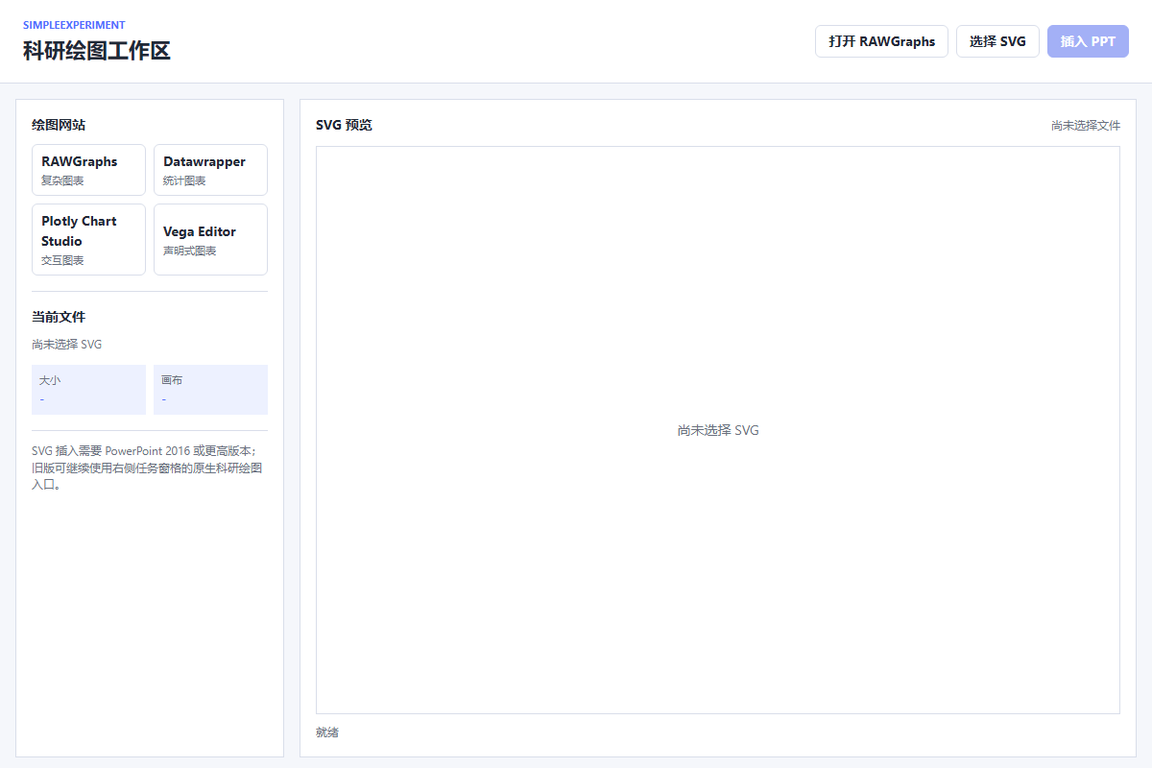
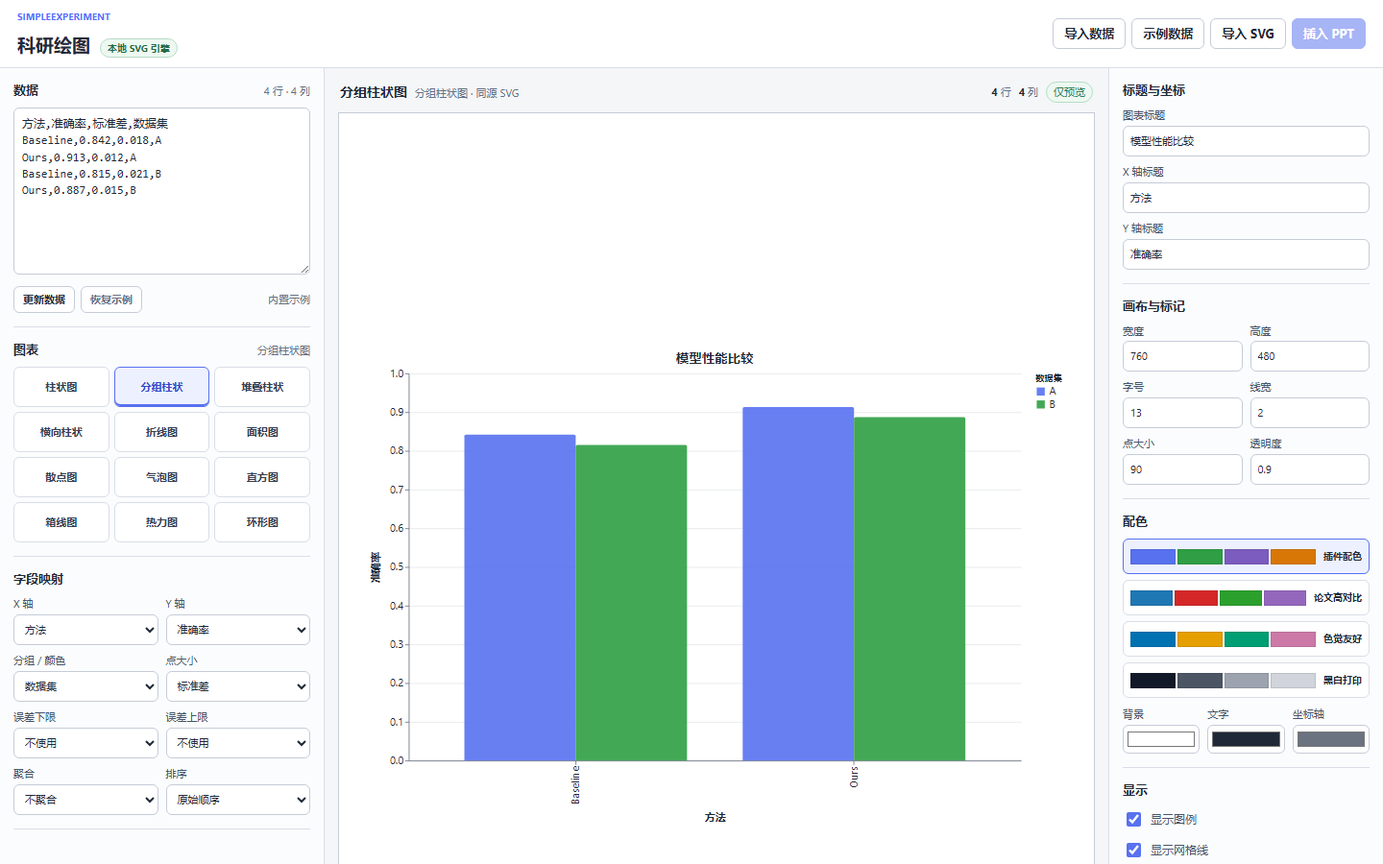
feat: complete local research chart workflow

diff --git a/src/RoughPptAddin/ui/help.html b/src/RoughPptAddin/ui/help.html
@@ -67,7 +67,7 @@
             <tr><td>风格、填充、线条、箭头快捷</td><td>Ribbon → 风格</td><td>快速套用常见视觉参数</td></tr>
             <tr><td>精确风格参数与模板</td><td>右侧 → 风格</td><td>调线宽、粗糙度、弯曲度、颜色、填充和来源</td></tr>
             <tr><td>二维与三维特征块</td><td>Ribbon → 论文与特征；右侧精调</td><td>网络结构图中的特征图、张量和体数据块</td></tr>
-            <tr><td>科研图表</td><td>右侧 → 科研绘图</td><td>在浏览器网站完成绘图，导出 SVG 后按同一份内容预览并插入；旧导入面板继续支持 JSON、CSV、统计结果和文件夹</td></tr>
+            <tr><td>科研图表</td><td>右侧 → 科研绘图</td><td>在插件本地工作台编辑 CSV/TSV，切换 12 种图表并实时预览 SVG；旧导入面板继续支持 JSON、统计结果和文件夹</td></tr>
             <tr><td>论文结构预设</td><td>Ribbon → 论文与特征 → 论文套件</td><td>快速搭建多模态、医学 AI、Transformer 等框图</td></tr>
             <tr><td>完整论文图片库</td><td>Ribbon → 素材 → 打开论文图片库</td><td>复用 Zotero 生成的完整图库，进行筛选、高清查看、分享、导入和删除</td></tr>
             <tr><td>Zotero 论文图与配色</td><td>右侧 → 论文图像与配色</td><td>快速搜索、插入当前参考图，并按单张图取色或保存配色</td></tr>
@@ -155,27 +155,27 @@
 
     <section id="charts" class="guide-section">
       <h2>六、科研绘图</h2>
-      <p>科研绘图主入口使用系统默认浏览器打开成熟绘图网站。网站导出的同一份 SVG 经安全校验后同时用于插件预览和 PowerPoint 插入，颜色、坐标、文字与布局不再由两套渲染器分别重建。旧任务窗格导入面板继续处理统计 JSON、CSV、论文表格和 SimpleExperiment 自动化结果，并保持 PowerPoint 原生对象输出。</p>
+      <p>科研绘图主入口打开插件自有的本地中文工作台，不会自动打开浏览器。工作台使用离线 Papa Parse 与 Vega Lite 解析 CSV/TSV，并直接生成用于预览和 PowerPoint 插入的同一份 SVG，因此颜色、坐标、文字和布局不会由两套渲染器分别重建。旧任务窗格导入面板继续处理统计 JSON、CSV、论文表格和 SimpleExperiment 自动化结果，并保持 PowerPoint 原生对象输出。</p>
       <figure class="guide-figure wide">
         <img src="./help-assets/chart-workspace.png" alt="科研绘图工作区与 PowerPoint 插入入口">
-        <figcaption>科研绘图工作区保留网站入口、SVG 文件状态、同源预览和插入操作。</figcaption>
+        <figcaption>本地科研绘图工作台包含数据、12 种图表、字段映射、实时 SVG 预览、样式控制和插入操作。</figcaption>
       </figure>
       <h3>标准流程</h3>
       <ol>
-        <li>点击右侧“科研绘图”。系统浏览器默认打开 RAWGraphs，独立 SVG 工作区同时打开。</li>
-        <li>也可在工作区改用 Datawrapper、Plotly Chart Studio 或 Vega Editor。</li>
-        <li>在网站完成图表并导出 SVG，不要导出网页截图。</li>
-        <li>回到工作区点击“选择 SVG”。通过安全校验后，页面显示即将插入的同一份 SVG。</li>
-        <li>点击“插入 PPT”，SVG 会等比居中插入当前幻灯片。PowerPoint 2013 请继续使用旧任务窗格原生绘图入口；SVG 插入需要 PowerPoint 2016 或更高版本。</li>
+        <li>点击右侧“科研绘图”，只打开本地工作台，不会自动跳转网页。</li>
+        <li>粘贴数据，或点击“导入数据”读取 CSV、TSV、TXT；字段和类型会自动识别。</li>
+        <li>在 12 种图表中选择类型，设置 X/Y、分组、点大小、误差上下限、聚合与排序。</li>
+        <li>调整标题、坐标、画布、字号、线宽、点大小、透明度、配色、图例、网格、标签和平滑线；任一调整都会实时重绘。</li>
+        <li>预览生成后，宿主会校验并暂存同一份 SVG。按钮启用后点击“插入 PPT”，SVG 会等比居中插入当前幻灯片。PowerPoint 2013 请继续使用旧任务窗格原生绘图入口；SVG 插入需要 PowerPoint 2016 或更高版本。</li>
       </ol>
-      <h3>网站入口</h3>
+      <h3>本地图表与外部扩展</h3>
       <ul>
-        <li><strong>RAWGraphs：</strong>复杂关系、层级、流向和非常规统计图。</li>
-        <li><strong>Datawrapper：</strong>常用统计图、表格与出版型图表。</li>
-        <li><strong>Plotly Chart Studio：</strong>散点、三维、误差与交互图表。</li>
-        <li><strong>Vega Editor：</strong>使用 Vega 或 Vega Lite 规范精确控制图表。</li>
+        <li><strong>本地 12 种图表：</strong>柱状、分组柱状、堆叠柱状、横向柱状、折线、面积、散点、气泡、直方、箱线、热力和环形图。</li>
+        <li><strong>配色：</strong>默认使用 SIMPLEEXPERIMENT 插件配色，也可切换论文高对比、色觉友好和黑白打印方案。</li>
+        <li><strong>导入 SVG：</strong>已有 SVG 可直接选择，仍使用同一安全校验与同源插入链路。</li>
+        <li><strong>外部扩展工具：</strong>RAWGraphs、Datawrapper、Plotly Chart Studio 和 Vega Editor 收在折叠区，只有明确点击具体按钮才会打开系统浏览器。</li>
       </ul>
-      <aside class="notice"><strong>SVG 安全边界：</strong>插件只打开四个固定 HTTPS 网站；本地 SVG 上限为 4 MB，必须使用 UTF-8，并拒绝脚本、事件、动画、外部 URL、嵌入图像和危险 XML。文件通过校验后会固定到插件会话缓存，插入前再次核对 SHA256。</aside>
+      <aside class="notice"><strong>SVG 安全边界：</strong>本地生成或导入的 SVG 上限为 4 MB，必须使用 UTF-8，并拒绝脚本、事件、动画、外部 URL、嵌入图像和危险 XML。内容通过校验后会固定到插件会话缓存，插入前再次核对 SHA256。外部工具仍仅限四个固定 HTTPS 网站。</aside>
       <h3>支持的结果入口</h3>
       <ul>
         <li>SIMPLEEXPERIMENT 项目中的 <code>statistics.json</code> 和论文结果表 CSV。</li>

diff --git a/docs/target-mode-plan.md b/docs/target-mode-plan.md
@@ -85,70 +85,7 @@
 
 ## 活跃队列
 
-1. SE001（统一验证通过）：PPT 缺省结果发现优先使用 `statistics.json` 和论文表格，再考虑摘要、索引和 case-level 辅助文件；`npm test` 已覆盖结果选择合同。
-2. SE002（统一验证通过）：discovery 与 `/health` 已补充服务和进程身份、固定路径、token header 清单、`ready`、`busy` 和 additive capabilities；`npm test` 已覆盖连接诊断合同。
-3. SE003（统一验证通过）：automation server 已缓存最近 32 个成功 `requestId`，相同内容重试返回 `replayed=true` 且不重复建页，不同内容复用 ID 与并发请求均快速返回中文 `409`；`npm test` 已覆盖幂等合同。
-4. SE004（统一验证通过）：任务窗格连接片、导入提示、自动绘图状态、错误反馈和默认图表标题已统一使用 SimpleExperiment 品牌；保留 ZLK 仅作为协议 ID、内部标记和兼容搜索词。
-5. SE005（统一验证通过）：连接合同验证、恢复源码等价实现兼容、部署与完整卸载入口、Office 版本兼容和批量重绘合同均已通过；完整 `npm.cmd test` 与 `npm.cmd run build:ui` 已通过。本批不打包、不安装。
-6. PKG001（已完成，实现提交 `ab02a49`）：用户明确要求生成最新版 ZIP、MSI、EXE。非破坏性发布脚本已补齐独立输出 NuGet restore、C# 新语法版本、ClickOnce 签名、Material Symbols TTF 嵌入和 per-user WiX 组件合同；`npm.cmd test`、`npm.cmd run build:ui`、Release 编译、Ribbon 图标验证及三种产物 SHA256 校验均通过。最终产物位于 `releases/RoughPptAddin-0.1.22-ab02a492/`，未自动安装。
-7. PKG002（已完成，实现提交 `1c1ac8b`）：用户安装 MSI 时出现 “A newer Rough PPT Add-in is already installed.”。根因是本机已安装 `0.1.695` 高于恢复仓按当前提交数生成的 `0.1.22`。本批使用持久化 `installerVersionBaseline=0.1.695` 加当前提交数恢复版本单调性，并由共享解析器覆盖两条打包链路；UpgradeCode、覆盖安装、per-user 范围、三种入口及现有插件数据保持不变。旧版到恢复后首个构建的回归合同、完整 `npm.cmd test`、`npm.cmd run build:ui`、Release、Ribbon、MSI ProductVersion `0.1.719` 和三种产物 SHA256 均通过；最终产物位于 `releases/RoughPptAddin-0.1.719-1c1ac8b2/`，未自动安装或关闭 PowerPoint。
-8. B504（统一验证通过）：简洁模式连接状态片恢复三列紧凑布局，窄窗改为两列加完整模式整行，文字固定横排并省略过长内容；敏感性曲线预览改为单条有边界留白的 SVG polyline，节点与折线共享坐标，避免断裂和越界。首次浏览器验证暴露连接文字容器仍受全局按钮规则压缩、简洁模式测试状态使隐藏菜单无法获取焦点；现显式固定状态点/文字网格列，并让菜单合同先恢复完整模式。完整 `npm.cmd test` 与 `npm.cmd run build:ui` 已通过。
-9. PKG003（已完成，发布提交 `d939c60`）：两处 UI 修复通过完整 `npm.cmd test`、`npm.cmd run build:ui`、独立 Restore、签名 Release 编译和 79 个 Ribbon 功能图标运行时验证。发布链路已修正内置构建信息，ZIP 中记录版本 `0.1.724`、提交 `d939c602d403`、`master`、`dirty=false`；MSI ProductVersion 与清单均为 `0.1.724`。ZIP、MSI、EXE 的长度和 SHA256 已逐项复核，最终产物位于 `releases/RoughPptAddin-0.1.724-d939c602/`。未自动安装，也未关闭或重启 PowerPoint/VS Code。
-10. PKG004（已完成，实现提交 `8e0c211`）：用户手动重复安装 `0.1.724` 时，PowerPoint 运行状态被 MSI 隐藏为 `RunInstall` 的 `1722/1603`。安装器现将完整日志持久化到 `%LOCALAPPDATA%\RoughPptAddin\logs`，同步记录注册表诊断并显示具体中文失败原因；前置组件子进程失败会立即停止，安装器不再自动关闭 PowerPoint。安装事务与 Ribbon 验证的临时删除改走回收站。完整 `npm.cmd test`、`npm.cmd run build:ui`、签名 Release 编译和 79 个 Ribbon 功能图标验证通过；MSI 保持 per-user、固定 UpgradeCode、同版本覆盖和 `RunInstall` 执行合同。`0.1.726` 的 ZIP、MSI、EXE 长度及 SHA256 与清单一致，内置构建信息为 `8e0c211561d3`、`master`、`dirty=false`，最终产物位于 `releases/RoughPptAddin-0.1.726-8e0c2115/`。未自动安装，也未关闭或重启 PowerPoint/VS Code。
-
-### 当前 SimpleExperiment 连接批次
-
-- 目标：提高 SimpleExperiment 到 PPT 原生科研绘图链路的结果选择正确性、连接可诊断性和重试安全性。
-- 范围：PPT automation server、结果发现、任务窗格状态、兼容验证和相关文档。
-- 排除：外部 `D:\GitRepo\MCP\zlk-cluster-orchestrator` 与 `D:\GitRepo\my_img_manager` 只读；不改其源码，不扫描 raw dataset/checkpoint/Agent 全局态，不自动安装、不关闭或重启 PowerPoint/VS Code。
-- 保护区：loopback 与 token 验证、`schemaVersion=1`、已有 PowerPoint 不关闭、结果统一经 importer 归一化、最终对象保持 PPT 原生可编辑。
-- 回归检查：SE001-SE005 已通过完整 `npm.cmd test` 与 `npm.cmd run build:ui`；本批未运行打包或安装，后续只有用户明确要求时才生成安装包。
-
-### 当前安装修复批次
-
-- 批次标识：PKG004。
-- 目标：让安装失败保留可定位日志，并让 PowerPoint 占用和同版本重复安装得到明确、可恢复的结果。
-- 范围：`scripts/install.ps1`、本体事务测试接线、安装合同测试和部署说明。
-- 排除：不修改插件业务功能，不自动安装，不关闭或重启 PowerPoint/VS Code，不清理用户数据或旧发布目录。
-- 保护区：当前用户安装范围、UpgradeCode、覆盖安装、ZIP/MSI/EXE 三入口、VSTO/证书/前置环境合同。
-- 当前状态：已完成。首次统一验证在部署文档旧措辞合同处失败，修正后完整测试、UI 构建、签名 Release、Ribbon 运行时图标、安装包内部合同和三种产物清单校验均通过；发布目录为 `releases/RoughPptAddin-0.1.726-8e0c2115/`，等待用户关闭 PowerPoint 后手动安装验证。
-
-### 当前 UI 与科研绘图工作区批次
-
-- 批次队列：B505、B506、B507、B508、B509。
-- 目标：修复简洁模式连接状态按钮在窄窗和全局流式规则下的纵向挤压；将“科研绘图”入口打开独立本地网页工作区，支持同一 CSV 切换多种预览类型，并把选中类型交回现有 PPT 原生图表渲染链路。
-- 范围：`src/RoughPptAddin/ui/**`、科研绘图独立 WebView2 窗口、任务窗格入口消息、相关静态合同与项目文档。
-- 排除：不移除旧任务窗格导入入口；不改变 ZLK `schemaVersion=1`、loopback/token 协议和结果 importer；不把 Canvas/SVG/图片作为 PPT 最终对象。
-- 保护区：PowerPoint 不自动关闭或重启；现有图表 renderer 继续只生成原生 `Shape`、`Line`、`Textbox`、`Table`；Chart.js 仅用于网页预览，CSV 通过 Papa Parse 解析。
-- 批次边界：每个小批次不单独测试、构建或打包；B505-B509 完成后统一运行完整 `npm test`、`npm run build:ui`，通过后按用户要求打包，供手动安装验证。
-- B505（统一验证通过）：按钮最终尺寸和可用宽度合同。
-- B506（统一验证通过）：独立科研绘图网页的本地静态界面、CSV 解析和 Chart.js 预览。
-- B507（统一验证通过）：独立 WebView2 窗口及本地资源映射。
-- B508（统一验证通过）：网页插入消息回传、PPT 原生图表插入和任务窗格入口跳转。
-- B509（统一验证通过）：资源清单、使用说明和端到端静态回归合同。
-- B510（已纠正）：第三方 Chart.js 包含可选 Canvas 导出 API；扫描器现只对该只读 vendor 文件豁免，工作区集成脚本禁止调用 Canvas 捕获或导出。
-- B511（已纠正）：独立科研绘图工作区消息已登记到 `bridge-contract.mjs`，全量 UI 合同通过。
-- B512（已纠正）：独立工作区回传消息的 `requestId` 仅用于页面应答，不再传给 `InsertZlkChart` 作为自动化请求标识；插入保持在当前 PPT 幻灯片目标，定向合同和完整验证通过。
-- 统一验证：`npm.cmd test`、`npm.cmd run build:ui`、`node --check` 和签名 Release 编译均通过；直接运行旧 `scripts/build.ps1` 因未传入 Restore/LangVersion 参数失败，不作为发布链路，`npm.cmd run package` 使用独立 Restore 与最新 C# 语言版本成功。
-- 发布产物：`releases/RoughPptAddin-0.1.736-ed524841/`，发布提交 `ed524841`；ZIP、MSI、EXE 清单、内置 `dirty=false` 构建信息和 SHA256 已复核；未自动安装、未关闭或重启 PowerPoint/VS Code。
-
-### 当前网页科研绘图与 SVG 所见即所得批次
-
-- 批次队列：B513、B514、B515、B516、B517、B518，均已完成并统一验证。
-- 目标：让简洁模式三个状态按钮直接复用快捷工作台按钮样式；科研绘图主入口打开系统浏览器中的成熟绘图网站；网站导出的 SVG 以同一份内容完成预览和 PPT 插入，消除颜色、坐标与排版差异。
-- 范围：简洁模式连接按钮、独立科研绘图工作区、系统浏览器白名单、SVG 选择/校验/插入、使用说明与静态合同。
-- 排除：不移除旧任务窗格 JSON/CSV/SimpleExperiment 原生绘图入口；不改变 ZLK `schemaVersion=1`、loopback/token 协议、结果 importer 或原生 renderer；不允许任意 URL、脚本化 SVG、外部资源或 Canvas 截图插入。
-- 保护区：PowerPoint 不自动关闭或重启；Rough 与 ZLK 自动绘图继续只生成原生对象；浏览器只打开 RAWGraphs、Datawrapper、Plotly Chart Studio、Vega Editor 四个固定地址；科研 SVG 只接受用户显式选择的本地文件，插件不伪造来源证明，并在插入前再次校验内容一致性。
-- 回归检查：连接按钮共享布局、系统浏览器白名单、SVG 安全校验、预览/插入同源、旧 ZLK 原生链路、Office 兼容提示、无渐变 UI、中文 tooltip。
-- 批次边界：单个小批次不运行测试、构建或打包；B513-B517 完成后统一运行完整 `npm.cmd test`、`npm.cmd run build:ui`、Release 编译并打包 ZIP/MSI/EXE。
-- B513（统一验证通过）：三个简洁模式状态按钮改用 `workflow-actions` 容器与同一按钮尺寸、边框、间距和响应式网格；记录科研 SVG 窄范围例外。
-- B514（统一验证通过）：科研绘图工作区改为四个网站入口、受控 SVG 选择、同源预览和插入状态工作台；移除本地 Chart.js/CSV 预览主流程，不影响任务窗格旧原生导入入口。
-- B515（统一验证通过）：系统浏览器仅接受 RAWGraphs、Datawrapper、Plotly Chart Studio、Vega Editor 四个固定 HTTPS 地址；科研绘图主入口默认打开 RAWGraphs，并同时保留本地 SVG 工作区。
-- B516（统一验证通过）：宿主文件选择器限制 4 MB UTF-8 SVG，拒绝 DTD、脚本、事件、动画、外部 URL/资源和嵌入图像；校验内容固定到插件会话缓存，预览和插入复用同一 SHA256 内容，并在 PowerPoint 2016 及更高版本居中等比插入当前幻灯片。
-- B517（统一验证通过）：使用说明、架构、验证清单和源码隔离扫描已同步网站绘图、SVG 安全边界、同源预览/插入、PowerPoint 2016 版本门禁与 PowerPoint 2013 原生入口回退。
-- B518（统一验证通过）：修复科研 SVG 空状态破图占位和 Plotly 长按钮文字截断，允许网站按钮自然换行，并以真实工作区截图更新使用说明；旧 `0.1.743` 发布目录已登记为人工清理候选，不再交付。
-- 统一验证与发布：源码扫描误报修正后，完整 `npm.cmd test`、`npm.cmd run build:ui`、签名 Release 编译和 79 个 Ribbon 功能图标运行时验证均通过。最终三种产物位于 `releases/RoughPptAddin-0.1.744-c4df37f5/`；ZIP 内构建信息为版本 `0.1.744`、提交 `c4df37f5a162`、`master`、`dirty=false`，科研 SVG 工作区、插件 DLL、安装、环境补齐、卸载和彻底卸载入口均存在。
[1 lines of base64/hex data omitted]
+1. B519-B523：当前本地科研绘图工作台批次；此前已完成批次由 Git 历史追溯。
 
 ### 当前本地科研绘图工作台批次
 
@@ -159,30 +96,22 @@
 - 保护区：PowerPoint 不自动关闭或重启；Rough 与 ZLK 自动绘图继续只生成 PPT 原生对象；本地工作台生成的科研 SVG 仍经 4 MB、安全 XML、脚本、事件、外部资源和内容一致性校验后才允许插入。
 - 回归检查：简洁模式仅显示一组紧凑连接状态；科研绘图快捷入口只打开本地工作台；工作台中文且无渐变；数据、字段、图表、样式变化实时更新预览；PPT 插入与预览使用同一 SVG；旧原生入口继续可用。
 - 批次边界：单个小批次不运行测试、构建或打包；B519-B523 完成后统一运行完整 `npm.cmd test`、`npm.cmd run build:ui`、签名 Release 编译和 ZIP/MSI/EXE 打包，供用户手动安装验证。
-- B519（已实现，待统一验证）：简洁模式强制隐藏仅供完整模式使用的重复连接状态条；科研绘图快捷入口只打开本地工作台，不再自动打开 RAWGraphs 或其它网站。
-- B520（已实现，待统一验证）：固定 Vega `6.3.1`、Vega-Lite `6.4.3`、Vega-Embed `7.1.0`，将浏览器运行时和 BSD-3-Clause 许可证离线纳入 UI 资源；依赖审计为 0 个已知漏洞。
-- B521（已实现，待统一验证）：工作台已提供中文 CSV/TSV 编辑与导入、12 种图表、字段映射、聚合排序、标题坐标、画布标记、四套配色、颜色和显示选项，并以三栏流式布局保留稳定 SVG 预览区；外部网站降为折叠的显式扩展入口。
-- B522（已实现，待统一验证）：CSV/TSV 经 Papa Parse 本地解析，12 种图表与全部字段/样式设置经 Vega-Lite 防抖实时重绘；预览直接使用 `view.toSVG()` 结果，宿主按 4 MB 与安全 XML 合同暂存同一字符串并确认后才允许插入 PPT；快捷入口仍只打开本地工作台，外部网站仅响应工作台内的显式点击。
-- B523（待处理）：更新使用说明与验证合同，完成五批次统一验证、构建和三种安装包发布。
+- B519（统一验证通过）：简洁模式强制隐藏仅供完整模式使用的重复连接状态条；科研绘图快捷入口只打开本地工作台，主任务窗格宿主也拒绝网站跳转消息。
+- B520（统一验证通过）：固定 Vega `6.3.1`、Vega-Lite `6.4.3`、Vega-Embed `7.1.0`，将浏览器运行时和 BSD-3-Clause 许可证离线纳入 UI 资源；依赖审计为 0 个已知漏洞。
+- B521（统一验证通过）：工作台提供中文 CSV/TSV 编辑与导入、12 种图表、字段映射、聚合排序、标题坐标、画布标记、四套配色、颜色和显示选项，并以三栏流式布局保留稳定 SVG 预览区；外部网站降为折叠的显式扩展入口。
+- B522（统一验证通过）：CSV/TSV 经 Papa Parse 本地解析，全部字段与样式设置经 Vega-Lite 防抖实时重绘；预览直接使用 `view.toSVG()` 结果，宿主按 4 MB 与安全 XML 合同暂存同一字符串并确认后才允许插入 PPT。
+- B523（统一验证通过，待发布打包）：使用说明、架构、验证合同和真实截图已同步；首次完整测试暴露并修正 vendor 文件名规则与桥接消息白名单，随后完整 `npm.cmd test`、`npm.cmd run build:ui`、签名 Release 编译和 79 个 Ribbon 功能图标验证均通过。下一边界仅为从干净发布提交生成 ZIP、MSI、EXE 并复核清单。
 
 ## 近期锚点
 
-- B485：安装入口补齐 PowerPoint、.NET Framework 4.8、WebView2 和 VSTO 的前置检测；缺少 WebView2/VSTO 时优先经 winget 自动安装，缺少 .NET、PowerPoint、winget 或自动安装失败时打开对应 Microsoft 官方页面并给出中文补齐提示，端用户路径仍不安装 Build Tools。
-- B484：新增一键彻底卸载入口，先拒绝在 PowerPoint 运行时操作，再清除 MSI 产品注册、VSTO 注册、插件本体、WebView2 状态、日志、自动化令牌、素材、缩略图、配色、预设、导出、安装器缓存和插件专用证书；明确保留 Zotero 共享论文图像库与系统级运行时。
-- B483：使用说明占用任务窗格 WebView，导致 Ribbon 调用已卸载的绘图页面；现改为宿主独立非模态说明窗口，主绘图桥保持常驻，支持边看边操作 PowerPoint；全量合同、26 张 UI 截图、Release 编译及 Ribbon 图标验证通过。
-- B482：用户明确要求提前统一验证和打包；全量合同、UI 构建、26 张任务窗格与使用说明截图、Release 编译、Ribbon 运行时图标验证及最终安装产物合同全部通过，产出 `0.1.670` ZIP、MSI 和 EXE，不自动安装。
-- B481：统一测试暴露箭头参数可见性合同仍锁定旧版内联条件，实际实现已抽出等价的 `arrowEnabled` 变量；合同改为同时锁定变量定义与调用，避免把等价重构误报为功能断裂。
-- B480：使用说明补充箭头三角形长宽的入口、范围、默认值、短线限制和实时重绘步骤，并明确 Ribbon 风格、填充、线条快捷项会同步重绘当前选区。
-- B479：用户实测指出 Ribbon 风格菜单只更新后续插入风格，未统一触发选区重绘；同时 `LineArrow` 生成器把高度回退为 80 磅，导致手绘箭头头部异常放大。Ribbon 模板现复用选区样式重绘链路，箭头改为独立长度/宽度参数并在右侧线条参数中可调。
-- B478：首次编译后图标验证表明 `IPictureDisp` 经 `FromHbitmap` 读取时透明底会被系统转为不透明浅灰，旧像素规则把背景误算为图标并假报非中性；运行时验证现以角点实测背景作差分，只对实际笔画检查中性深色、清晰暗部、蓝色占位和实心密度；修正后统一完整测试、UI 构建、截图、运行时验证、`0.1.666` 打包和最终产物合同全部通过。
+- B484-B485：安装入口覆盖 PowerPoint、.NET Framework 4.8、WebView2、VSTO 检测与补齐；彻底卸载清除插件资源但保留 Zotero 共享库和系统运行时。
+- B482-B483：使用说明改为独立非模态窗口，支持边看边操作；完整 UI、Release、Ribbon 与三种安装产物验证通过。
+- B480-B481：箭头参数合同、三角形长宽入口、默认值、短线限制和实时重绘说明完成同步。
+- B478-B479：Ribbon 快捷风格实时重绘、箭头异常放大和透明 Ribbon 图标运行时误报均已修正并验证。
 
 ## 关键里程碑
 
-- B467-B474：Ribbon 拓扑收敛为 5 组唯一入口，编译后验证 78 个最终可见功能图标；安装合同确认当前用户事务安装、同版本覆盖和 ICE61/ICE91 定向抑制。
-- B457-B466：使用说明产物纳入启动完整性校验，返回路径保持简洁/完整模式、活动工作区、搜索范围、滚动位置和 Office 原生形状图标；静态、运行时与消息合同共同防止导航回归。
-- B452-B456：新增完整离线图文说明和右上角学习入口，覆盖全部功能与入口；建立窄窗、图片、本地导航及无渐变合同，并增加 PowerPoint 2013 以上、32/64 位 Office、WebView2、VSTO 与 .NET Framework 4.8 的宿主和安装兼容检测。
-- B442-B446：简洁模式按选区变化进入正确工作区，同类轮询保留用户主动工作区；特征块方向工具按需展开，科研绘图无数据时隐藏不可用清空操作，并建立串联运行时合同。
-- B437-B441：命令按钮改用本机 SimpleExperiment 当前主题的 `#5871EF/#6B83ED/#526FFF`，状态信息继续使用 `#2563EB`；同时压缩长状态并按上下文隐藏不可用的素材与配色命令。
-- B432-B436：清除 Ribbon 图库、论文预设、配色布局卡片和科研图预览中的装饰渐变，保留真正表达配色映射的功能预览，并建立核心 UI 计算样式无渐变审计。
-- B411-B415：任务窗格颜色、纯色按钮质感、30/24px 尺寸策略和状态反馈与 SimpleExperiment 对齐，并建立无装饰渐变验证合同。
-- B116：建立 Zotero 图像库读取基础；后续批次统一遵守当前冻结的外部 SQLite 与受限 bridge 协议。
+- B467-B474：Ribbon 收敛为 5 组唯一入口；安装合同覆盖当前用户、同版本覆盖和 ICE61/ICE91 定向抑制。
+- B452-B466：离线图文说明、右上角学习入口、返回状态、无渐变、窄窗和 PowerPoint 2013 以上兼容合同建立。
+- B411-B446：任务窗格配色、按钮尺寸、按选区显示、功能边界和 SimpleExperiment 主题完成统一。
+- B116：Zotero 图像库读取遵守冻结的外部 SQLite 与受限 bridge 协议。

diff --git a/docs/VALIDATION.md b/docs/VALIDATION.md
@@ -5,7 +5,7 @@
 - Inserted visible objects are PowerPoint Freeforms or Groups.
 - Rough and ZLK inserted visible objects are not `msoPicture`.
 - No PNG, Canvas capture, or SVG is used as final Rough or ZLK slide content.
-- Research SVG insertion is isolated to `ResearchChartStudioService`, uses a 4 MB UTF-8 limit, rejects active or external content, and rechecks SHA256 before insertion.
+- Research SVG insertion is isolated to `ResearchChartStudioService`, uses a 4 MB UTF-8 limit, rejects active or external content, and rechecks SHA256 before insertion; the local preview uses the exact staged `view.toSVG()` string.
 - The insert window lists all known `MsoAutoShapeType` catalog entries.
 - The Ribbon shape dropdown loads the packaged AutoShape catalog, shows every insertable PPT shape, and returns unique dynamic item IDs so PowerPoint does not render a blank menu.
 - Opening the task pane with no selected shape reports an empty selection state instead of failing initialization.
@@ -76,16 +76,17 @@ The `validate-rough-realtime.mjs` check regenerates representative Rough.js shap
 The `validate-ui-contract.mjs` check enforces Chinese-first visible UI copy, static and dynamic hover tooltips, Ribbon screentips, and Chinese-first catalog display names.
 The `validate-installer-runtime-prereqs.mjs` check enforces that portable, MSI, and EXE installers only install WebView2 Runtime and VSTO Runtime for end users. Build Tools remain development and packaging prerequisites only.
 The `validate-external-plugin-compat.mjs` check compares the PPT add-in against local ZLK cluster and Zotero image saver contracts when those repos are present, and also enforces ZLK source-file resource guards.
-The `validate-research-chart-studio.mjs` check enforces the four-site HTTPS whitelist, system-browser launch, SVG-only workspace, same-content preview and insertion messages, PowerPoint version guard, and the retained native ZLK entry.
+The `validate-research-chart-studio.mjs` check enforces offline Papa Parse and Vega resources, 12 local chart types, direct SVG rendering, same-content staging and insertion, the PowerPoint version guard, and the retained native ZLK entry. It also rejects any browser launch from the task-pane quick entry; the four-site HTTPS whitelist remains available only through explicit buttons inside the workbench.
 
 ## Research SVG Manual Smoke Test
 
-1. Open the research chart entry and confirm RAWGraphs opens in the system default browser while the local SVG workspace stays modeless.
-2. Export an SVG containing visible axes, labels, and several colors.
-3. Select the SVG and compare the workspace preview with the website export.
-4. Insert it into the current slide and compare colors, axes, labels, aspect ratio, and spacing with the preview.
-5. Confirm a file over 4 MB, a scripted SVG, an SVG with an external URL, and a modified cached file are rejected with Chinese errors.
-6. On PowerPoint 2013, confirm the SVG action reports the version requirement and the native JSON/CSV research chart path remains available.
+1. Open the research chart entry and confirm only the modeless local workbench opens; no browser tab or window may open automatically.
+2. Paste or import CSV/TSV, switch all 12 chart types, and verify field mappings and style controls update the SVG preview without page navigation.
+3. Confirm the preview uses SIMPLEEXPERIMENT colors by default, then compare colors, axes, labels, aspect ratio, and spacing after insertion into the current slide.
+4. Change a setting immediately before insertion and confirm the insert button remains disabled until the matching staged SVG is accepted by the host.
+5. Expand external tools and explicitly open one site; confirm only the clicked whitelist site opens. Import an exported SVG and compare its preview with the inserted result.
+6. Confirm a file over 4 MB, a scripted SVG, an SVG with an external URL, and a modified cached file are rejected with Chinese errors.
+7. On PowerPoint 2013, confirm the SVG action reports the version requirement and the native JSON/CSV research chart path remains available.
 
 ## Native Resize Smoke Test
 
